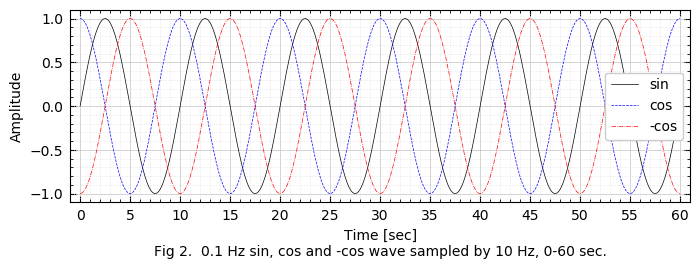
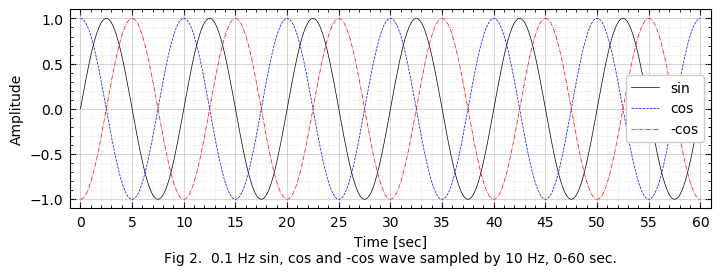
add status.cpp status.hpp

diff --git a/test_status.hpp b/test_status.hpp
@@ -1,0 +1,60 @@
+#pragma once
+
+TEST(status, memory){
+	sstd::status_print();
+	printf("\n");
+	
+//	sstd::printn( sstd::status_Name()         ); // Name:	exe
+//	sstd::printn( sstd::status_State()        ); // State:	S (sleeping)
+	sstd::printn( sstd::status_Tgid()         ); // Tgid:	18108
+	sstd::printn( sstd::status_Ngid()         ); // Ngid:	0
+	sstd::printn( sstd::status_Pid()          ); // Pid:	18108
+	sstd::printn( sstd::status_PPid()         ); // PPid:	15553
+	sstd::printn( sstd::status_TracerPid()    ); // TracerPid:	0
+//	sstd::printn( sstd::status_Uid()          ); // Uid:	1000	1000	1000	1000
+//	sstd::printn( sstd::status_Gid()          ); // Gid:	1000	1000	1000	1000
+	sstd::printn( sstd::status_FDSize()       ); // FDSize:	256
+//	sstd::printn( sstd::status_Groups()       ); // Groups:	4 24 27 30 46 113 128 1000
+	
+	sstd::printn( sstd::status_NStgid()       );
+	sstd::printn( sstd::status_NSpid()        );
+	sstd::printn( sstd::status_NSpgid()       );
+	sstd::printn( sstd::status_NSsid()        );
+	
+	sstd::printn( sstd::status_VmPeak()       );
+	sstd::printn( sstd::status_VmSize()       );
+	sstd::printn( sstd::status_VmLck()        );
+	sstd::printn( sstd::status_VmPin()        );
+	sstd::printn( sstd::status_VmHWM()        );
+	sstd::printn( sstd::status_VmRSS()        );
+	sstd::printn( sstd::status_VmData()       );
+	sstd::printn( sstd::status_VmStk()        );
+	sstd::printn( sstd::status_VmExe()        );
+	sstd::printn( sstd::status_VmLib()        );
+	sstd::printn( sstd::status_VmPTE()        );
+	sstd::printn( sstd::status_VmPMD()        );
+	sstd::printn( sstd::status_VmSwap()       );
+	sstd::printn( sstd::status_HugetlbPages() );
+	
+	sstd::printn( sstd::status_Threads()      ); // Threads:	1
+//	sstd::printn( sstd::status_SigQ()         ); // SigQ:	5/128305
+//	sstd::printn( sstd::status_SigPnd()       ); // SigPnd:	0000000000000000
+//	sstd::printn( sstd::status_ShdPnd()       ); // ShdPnd:	0000000000000000
+//	sstd::printn( sstd::status_SigBlk()       ); // SigBlk:	0000000000010000
+//	sstd::printn( sstd::status_SigIgn()       ); // SigIgn:	0000000000000006
+//	sstd::printn( sstd::status_SigCgt()       ); // SigCgt:	0000000180000000
+//	sstd::printn( sstd::status_CapInh()       ); // CapInh:	0000000000000000
+//	sstd::printn( sstd::status_CapPrm()       ); // CapPrm:	0000000000000000
+//	sstd::printn( sstd::status_CapEff()       ); // CapEff:	0000000000000000
+//	sstd::printn( sstd::status_CapBnd()       ); // CapBnd:	0000003fffffffff
+//	sstd::printn( sstd::status_CapAmb()       ); // CapAmb:	0000000000000000
+	sstd::printn( sstd::status_Seccomp()                   );// Seccomp:	0
+//	sstd::printn( sstd::status_Speculation_Store_Bypass()  ); // Speculation_Store_Bypass:	thread vulnerable
+//	sstd::printn( sstd::status_Cpus_allowed()              ); // Cpus_allowed:	ffff
+//	sstd::printn( sstd::status_Cpus_allowed_list()         ); // Cpus_allowed_list:	0-15
+//	sstd::printn( sstd::status_Mems_allowed()              ); // Mems_allowed:	00000000,00000001
+	sstd::printn( sstd::status_Mems_allowed_list()         ); // Mems_allowed_list:	0
+	sstd::printn( sstd::status_voluntary_ctxt_switches()   ); // voluntary_ctxt_switches:	35
+	sstd::printn( sstd::status_nonvoluntary_ctxt_switches()); // nonvoluntary_ctxt_switches:	2
+}
+

diff --git a/test_c2py.py b/test_c2py.py
@@ -447,7 +447,6 @@ def vec2graph(writeName, vecX, vecY):
     ax1.yaxis.set_minor_locator(tick.MultipleLocator(0.1))
     
     plt.savefig(writeName, bbox_inches="tight") # , dpi=100
-    return 0
 #---
 #mpl.rcParams['legend.frameon'] = 'False'
 mpl.rcParams['legend.framealpha'] = 1
@@ -455,7 +454,9 @@ mpl.rcParams['legend.framealpha'] = 1
 #mpl.rcParams['legend.edgecolor'] = 'black'
 def vvec2graph(writeName, vLabel, vvecX, vvecY):
     plt.clf()
-    fig = plt.figure(figsize=(8, 2.5)) # 3*5, 1*5 # アスペクト比の設定
+    #fig = plt.figure(figsize=(8, 2.5)) # 3*5, 1*5 # アスペクト比の設定
+    fig = plt.figure(figsize=(8*1.033333333, 2.5*1.033333333)) # 3*5, 1*5 # アスペクト比の設定
+    # 62 sec / 60 sec = 1.033333333
     ax1 = fig.add_subplot(111)
     vColor=['black', 'blue', 'red']
     vLineStyle = ['solid', 'dashed', 'dashdot'] # solid, dashed, dashdot, dotted
@@ -481,7 +482,6 @@ def vvec2graph(writeName, vLabel, vvecX, vvecY):
 
     plt.legend(loc='best')
     plt.savefig(writeName, bbox_inches="tight") # , dpi=100
-    return 0
 
 #--------------------------------------------------------------------------------------------------------
 

diff --git a/test_c2py.hpp b/test_c2py.hpp
@@ -1421,7 +1421,7 @@ void TEST__c2py__sample_codes(){
 		std::vector<double> vecY = sstd::sinWave(freq_generate, freq_sample, len);
 		std::vector<double> vecX(len); for(uint i=0; i<vecX.size(); i++){ vecX[i]=(double)i*(1/freq_sample); }
 		
-		sstd::c2py<int> vec2graph(tmpDir, fileName, "vec2graph", "int, const char*, vec<double>, vec<double>");
+		sstd::c2py<void> vec2graph(tmpDir, fileName, "vec2graph", "void, const char*, vec<double>, vec<double>");
 		vec2graph("./sin.png", vecX, vecY);
 	}
 	//---
@@ -1439,7 +1439,7 @@ void TEST__c2py__sample_codes(){
 		std::vector<std::vector<double>> vvecX={sinX, cosX,    cosX};
 		std::vector<std::vector<double>> vvecY={sinY, cosY, -1*cosY};
 		
-		sstd::c2py<int> vvec2graph(tmpDir, fileName, "vvec2graph", "int, const char*, const vec<str>*, const vvec<double>*, const vvec<double>*");
+		sstd::c2py<void> vvec2graph(tmpDir, fileName, "vvec2graph", "void, const char*, const vec<str>*, const vvec<double>*, const vvec<double>*");
 		vvec2graph("./sin_cos.png", &vLabel, &vvecX, &vvecY);
 	}
 	//---

diff --git a/main.cpp b/main.cpp
@@ -36,8 +36,9 @@ void TEST_parseCSV();
 void TEST_encode_decode();
 void TEST_hashFnc();
 void TEST_pause();
-#include "./test_c2py.hpp"
+//#include "./test_c2py.hpp"
 //void TEST_getpid();        // テストを書くように．
+#include "./test_status.hpp"
 
 // stdVector_expansion of operators
 void TEST_stdVector_expansion();
@@ -85,8 +86,8 @@ int main(int argc, char** argv){
 	
 //	TEST_stdVector_expansion();
 	
-	TEST_mat_colMajor(); // TODO: write tests (zeros, Tr) // sstd::print 関数のテストを書くように
-	TEST_mat_rowMajor(); // TODO: write tests (zeros, Tr) // sstd::print 関数のテストを書くように
+//	TEST_mat_colMajor(); // TODO: write tests (zeros, Tr) // sstd::print 関数のテストを書くように
+//	TEST_mat_rowMajor(); // TODO: write tests (zeros, Tr) // sstd::print 関数のテストを書くように
 //	TEST_bmat();
 	
 	printf("\n");

diff --git a/sstd/sstd.hpp b/sstd/sstd.hpp
@@ -51,6 +51,7 @@
 #include "./src/hashFnc_of_MD5_SHA1_SHA2/sstd_md5_sha1_sha2_wrapper.hpp"
 #include "./src/pause.hpp"
 #include "./src/pid.hpp"
+#include "./src/status.hpp"
 
 namespace sstd{
 
